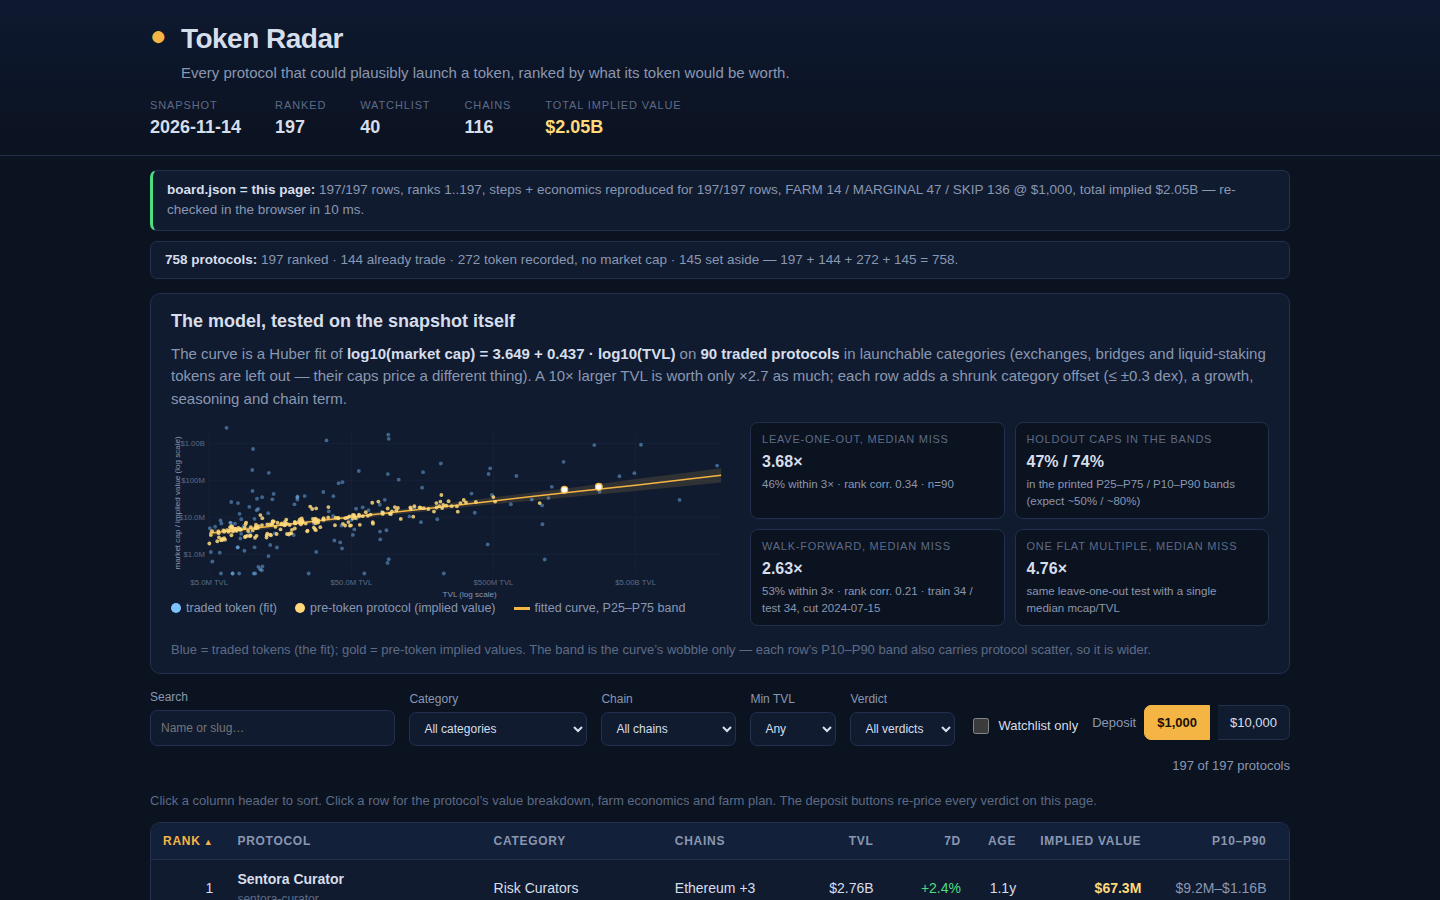
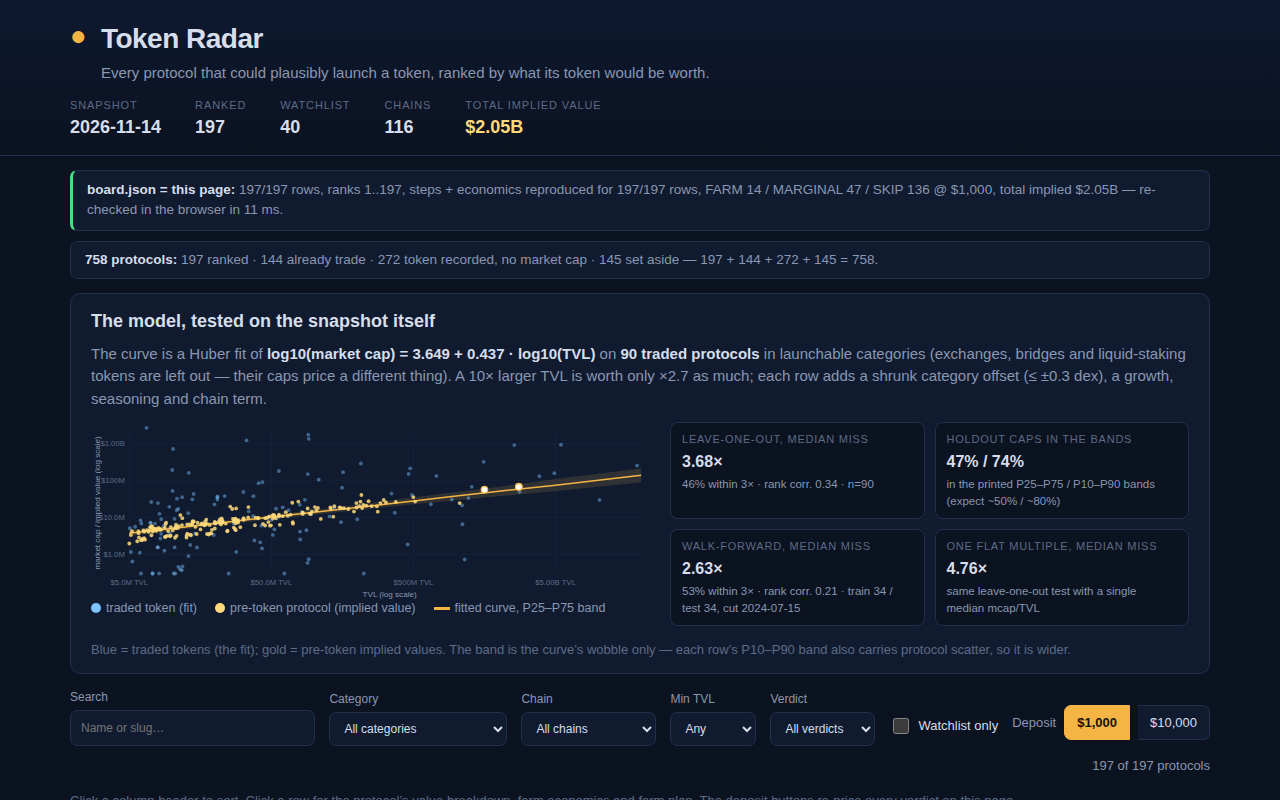
Round 4: Best farms panel + ablation table on v2 layout
- Best farms panel below the board: the three watchlist rows with the
  best net per active hour at a $10,000 deposit (Axis +$192/h, Tori
  +$186/h, Gami +$111/h), all FARM with positive economics. Same three
  lead the watchlist at $1,000 (+$48/+$46/+$23/h) but only clear FARM
  at $10,000; the panel says so. No watchlist row is FARM at $1,000,
  so the $1,000 figures are not shown as FARM.
- Ablation table from round 3 (flat 4.76x -> full model 3.68x LOO),
  computed in lib/radar.ts and rendered from data.js.
- v2 layout kept: large scatter chart (H=240), 4 validation cards,
  1-row table, no KPI strip, no 8-row densification.
- Screenshots re-shot at 1280x800, all under 256 KiB.
- board.json byte-identical (model untouched); gate 10/10 PASS.

Changed region(s): [[0.0625, 0.0312, 0.9375, 1.0]]

diff --git a/lib/radar.ts b/lib/radar.ts
@@ -188,6 +188,17 @@ export interface BoardRow {
   farm_steps: string[];
 }
 
+/** One row of the ablation table: what one added model term earns, out of sample. */
+export interface AblationRow {
+  stage: string;
+  loo_median_miss: number;
+  loo_within_3x: number;
+  loo_rank_corr: number;
+  wf_median_miss: number;
+  wf_within_3x: number;
+  wf_rank_corr: number;
+}
+
 /** A token-bearing protocol, for the dashboard's comparable-peers view. */
 export interface PeerRow {
   slug: string;
@@ -223,6 +234,7 @@ export interface RadarData {
     flat_multiple: { median_miss: number; within_3x: number };
     bootstrap_refits: number;
   };
+  ablation: AblationRow[];
   accounting: {
     total: number;
     ranked: number;
@@ -603,6 +615,114 @@ export function flatMultipleCheck(points: FitPoint[]): { median_miss: number; wi
     median_miss: Math.round(median(misses) * 100) / 100,
     within_3x: Math.round((misses.filter((m) => m <= 3).length / misses.length) * 1000) / 1000,
   };
+}
+
+/** One ablation stage: which model terms its prediction carries. */
+type AblationStage = 'flat' | 'ols' | 'huber' | 'offsets' | 'growth' | 'age' | 'full';
+
+const ABLATION_STAGES: { stage: AblationStage; label: string }[] = [
+  { stage: 'flat', label: 'Flat multiple' },
+  { stage: 'ols', label: 'Size curve (OLS)' },
+  { stage: 'huber', label: '+ Huber weights' },
+  { stage: 'offsets', label: '+ Family offsets' },
+  { stage: 'growth', label: '+ 7-day growth' },
+  { stage: 'age', label: '+ Listing age' },
+  { stage: 'full', label: '+ Chain breadth' },
+];
+
+/** The fit a stage needs from its training points: a curve, offsets, or one multiple. */
+function fitForStage(
+  stage: AblationStage,
+  points: FitPoint[],
+): { a: number; b: number; offsets: Map<string, { dex: number; peers: number }>; multiple: number } {
+  if (stage === 'flat') {
+    const multiple = median(points.map((p) => p.protocol.mcap_usd! / p.protocol.tvl_usd));
+    return { a: 0, b: 0, offsets: new Map(), multiple };
+  }
+  if (stage === 'ols') {
+    const { a, b } = ols(points);
+    return { a, b, offsets: new Map(), multiple: 0 };
+  }
+  if (stage === 'huber') {
+    const { a, b } = huberFit(points);
+    return { a, b, offsets: new Map(), multiple: 0 };
+  }
+  const model = fitModel(points);
+  return { a: model.a, b: model.b, offsets: model.offsets, multiple: 0 };
+}
+
+/** A protocol's predicted market cap under one ablation stage's fit. */
+function predictStage(
+  stage: AblationStage,
+  fit: ReturnType<typeof fitForStage>,
+  p: SnapshotProtocol,
+  asOf: string,
+): number {
+  if (stage === 'flat') return Math.max(1, Math.round(p.tvl_usd * fit.multiple));
+  let v = Math.pow(10, fit.a + fit.b * Math.log10(Math.max(p.tvl_usd, 1)));
+  if (stage === 'ols' || stage === 'huber') return Math.max(1, Math.round(v));
+  const offset = fit.offsets.get(p.category ?? '(none)') ?? { dex: 0, peers: 0 };
+  v *= Math.pow(10, offset.dex);
+  if (stage === 'offsets') return Math.max(1, Math.round(v));
+  v *= growthFactor(p);
+  if (stage === 'growth') return Math.max(1, Math.round(v));
+  v *= ageFactor(p, asOf);
+  if (stage === 'age') return Math.max(1, Math.round(v));
+  v *= chainFactor(p);
+  return Math.max(1, Math.round(v));
+}
+
+/** The dated fit points split the way walkForwardCheck splits them: earlier half trains, later half tests. */
+function walkForwardSplit(points: FitPoint[]): { train: FitPoint[]; test: FitPoint[]; cut: string } {
+  const dated = points.filter((p) => p.protocol.listed_at !== null).sort((a, b) => (a.protocol.listed_at! < b.protocol.listed_at! ? -1 : 1));
+  const half = Math.floor(dated.length / 2);
+  return { train: dated.slice(0, half), test: dated.slice(half), cut: dated.slice(half)[0]!.protocol.listed_at! };
+}
+
+/** One stage's LOO and walk-forward numbers, rounded exactly as looCheck rounds them. */
+function stageScores(stage: AblationStage, points: FitPoint[], asOf: string): Omit<AblationRow, 'stage'> {
+  const misses: number[] = [];
+  const preds: number[] = [];
+  const acts: number[] = [];
+  for (let i = 0; i < points.length; i++) {
+    const rest = points.filter((_, j) => j !== i);
+    const predicted = predictStage(stage, fitForStage(stage, rest), points[i]!.protocol, asOf);
+    const actual = points[i]!.protocol.mcap_usd!;
+    misses.push(missRatio(predicted, actual));
+    preds.push(predicted);
+    acts.push(actual);
+  }
+  const { train, test } = walkForwardSplit(points);
+  const trainFit = fitForStage(stage, train);
+  const wfMisses: number[] = [];
+  const wfPreds: number[] = [];
+  const wfActs: number[] = [];
+  for (const p of test) {
+    const predicted = predictStage(stage, trainFit, p.protocol, asOf);
+    const actual = p.protocol.mcap_usd!;
+    wfMisses.push(missRatio(predicted, actual));
+    wfPreds.push(predicted);
+    wfActs.push(actual);
+  }
+  return {
+    loo_median_miss: Math.round(median(misses) * 100) / 100,
+    loo_within_3x: Math.round((misses.filter((m) => m <= 3).length / misses.length) * 1000) / 1000,
+    loo_rank_corr: Math.round(spearman(preds, acts) * 1000) / 1000,
+    wf_median_miss: Math.round(median(wfMisses) * 100) / 100,
+    wf_within_3x: Math.round((wfMisses.filter((m) => m <= 3).length / wfMisses.length) * 1000) / 1000,
+    wf_rank_corr: Math.round(spearman(wfPreds, wfActs) * 1000) / 1000,
+  };
+}
+
+/**
+ * ablationCheck(): one row per model term added, from the flat multiple
+ * up to the full model. Each row re-runs the same leave-one-out and
+ * walk-forward tests as looCheck() / walkForwardCheck(), so the last row
+ * — the full model, chain breadth included — reproduces their numbers
+ * exactly, and every earlier row shows what its term earns.
+ */
+export function ablationCheck(points: FitPoint[], asOf: string): AblationRow[] {
+  return ABLATION_STAGES.map(({ stage, label }) => ({ stage: label, ...stageScores(stage, points, asOf) }));
 }
 
 /**
@@ -1019,6 +1139,7 @@ export function buildRadar(snapshot: Snapshot): { board: BoardRow[]; radar: Rada
   const loo = looCheck(points, snapshot.as_of);
   const walkForward = walkForwardCheck(points, snapshot.as_of);
   const flat = flatMultipleCheck(points);
+  const ablation = ablationCheck(points, snapshot.as_of);
   const setAside = setAsideRows(snapshot);
   const counts = (key: 'farm_1000' | 'farm_10000'): { FARM: number; MARGINAL: number; SKIP: number } => {
     const c = { FARM: 0, MARGINAL: 0, SKIP: 0 };
@@ -1047,6 +1168,7 @@ export function buildRadar(snapshot: Snapshot): { board: BoardRow[]; radar: Rada
       flat_multiple: flat,
       bootstrap_refits: MODEL.bootstrap_refits,
     },
+    ablation,
     accounting: {
       total: snapshot.protocols.length,
       ranked: board.length,

diff --git a/dashboard/app.js b/dashboard/app.js
@@ -411,6 +411,69 @@ function renderChart() {
   $('chart').innerHTML = s;
 }
 
+// ---------------------------------------------------------------- ablation table
+
+/** One row per model term added: what the term earns, out of sample, on the 90 traded tokens. */
+function renderAblation() {
+  var v = DATA.validation;
+  $('ablation-line').textContent =
+    'Each row adds one term to the model and re-runs the same leave-one-out and walk-forward tests as the panel above (n=' + v.loo.n +
+    ' traded tokens; walk-forward trains on the ' + v.walk_forward.train + ' earliest-listed, tests the ' + v.walk_forward.test +
+    ' later-listed, cut ' + v.walk_forward.cut + '). The curve earns its keep over one flat multiple; the last row is the model this board uses.';
+  var tbody = document.querySelector('#ablation-table tbody');
+  DATA.ablation.forEach(function (a, i) {
+    var tr = document.createElement('tr');
+    if (i === DATA.ablation.length - 1) tr.className = 'full';
+    var cells = [
+      a.stage + (i === DATA.ablation.length - 1 ? ' — the board’s model' : ''),
+      a.loo_median_miss.toFixed(2) + '×',
+      Math.round(a.loo_within_3x * 100) + '%',
+      a.loo_rank_corr.toFixed(2),
+      a.wf_median_miss.toFixed(2) + '×',
+      Math.round(a.wf_within_3x * 100) + '%',
+      a.wf_rank_corr.toFixed(2),
+    ];
+    cells.forEach(function (c, j) {
+      var td = document.createElement('td');
+      if (j > 0) td.className = 'num';
+      if (j === 0) td.className = 'stage';
+      td.textContent = c;
+      tr.appendChild(td);
+    });
+    tbody.appendChild(tr);
+  });
+}
+
+// ---------------------------------------------------------------- best farms
+
+/** The three watchlist rows with the best net per active hour, at the $10,000
+ * deposit — the only deposit where all three clear FARM (at $1,000 the same
+ * three lead the watchlist but are MARGINAL / MARGINAL / SKIP: the slice
+ * scales with the square root of the deposit while the plan cost stays flat). */
+function renderBestFarms() {
+  var top = rows.filter(function (r) { return r.watchlist; })
+    .sort(function (a, b) { return b.farm_10000.net_per_hour_usd - a.farm_10000.net_per_hour_usd; }).slice(0, 3);
+  $('bestfarms-line').textContent =
+    'The three watchlist protocols with the best net per active hour at a $10,000 deposit. The same three lead the watchlist at $1,000 (' +
+    top.map(function (r) { return '+$' + Math.round(r.farm_1000.net_per_hour_usd) + '/h'; }).join(', ') +
+    ') but only clear FARM at $10,000.';
+  var tbody = document.querySelector('#bestfarms-table tbody');
+  top.forEach(function (r) {
+    var e = r.farm_10000;
+    var tr = document.createElement('tr');
+    [['name', r.name], ['num', usd(r.implied_value_usd)], ['num', Math.round(r.launch_odds * 100) + '%'],
+     ['num pos', '+$' + Math.round(e.net_usd)], ['num pos', '+$' + Math.round(e.net_per_hour_usd) + '/h'],
+     ['num', null]].forEach(function (c, i) {
+      var td = document.createElement('td');
+      td.className = c[0];
+      if (i === 5) td.innerHTML = pill(e.verdict);
+      else td.textContent = c[1];
+      tr.appendChild(td);
+    });
+    tbody.appendChild(tr);
+  });
+}
+
 // ---------------------------------------------------------------- board table
 
 function filteredRows() {
@@ -758,6 +821,8 @@ function init() {
   renderStats();
   renderAccounting();
   renderValidation();
+  renderBestFarms();
+  renderAblation();
   renderFilters();
   sealCheck();
   $('q').addEventListener('input', function (e) { state.q = e.target.value; renderBoard(); });

diff --git a/dashboard/index.html b/dashboard/index.html
@@ -86,6 +86,22 @@
         <tbody id="rows"></tbody>
       </table>
     </div>
+    <section class="panel" id="bestfarms">
+      <h2>Best farms on the watchlist — at a $10,000 deposit</h2>
+      <p id="bestfarms-line"></p>
+      <table class="mini" id="bestfarms-table">
+        <thead><tr><th>Protocol</th><th class="num">Implied value</th><th class="num">Launch odds</th><th class="num">Net if launch</th><th class="num">Net / hour</th><th class="num">Verdict</th></tr></thead>
+        <tbody></tbody>
+      </table>
+    </section>
+    <section class="panel" id="ablation">
+      <h2>What each part of the model earns — out of sample</h2>
+      <p id="ablation-line"></p>
+      <table class="mini" id="ablation-table">
+        <thead><tr><th>Model</th><th class="num">LOO miss</th><th class="num">Within 3&times;</th><th class="num">Rank &rho;</th><th class="num">Walk-fwd miss</th><th class="num">Within 3&times;</th><th class="num">Rank &rho;</th></tr></thead>
+        <tbody></tbody>
+      </table>
+    </section>
     <section class="panel" id="accounting">
       <h2>All 758 protocols, accounted for</h2>
       <p id="accounting-line"></p>

diff --git a/dashboard/app.css b/dashboard/app.css
@@ -148,6 +148,10 @@ table.mini th { cursor: default; text-transform: none; letter-spacing: 0; }
 table.mini th, table.mini td { white-space: normal; }
 table.mini tbody tr { cursor: default; }
 table.mini tbody tr:hover { background: transparent; }
+#ablation-table td.stage { font-weight: 600; color: var(--ink); }
+#ablation-table tr.full td { background: #16233d; font-weight: 650; }
+#ablation-table tr.full td.stage { color: var(--gold-soft); }
+#bestfarms-table td.name { font-weight: 600; color: var(--ink); }
 .steps { margin: 0; padding-left: 22px; }
 .steps li { margin: 0 0 10px; padding-left: 4px; }
 .steps li::marker { color: var(--gold); font-weight: 700; }
